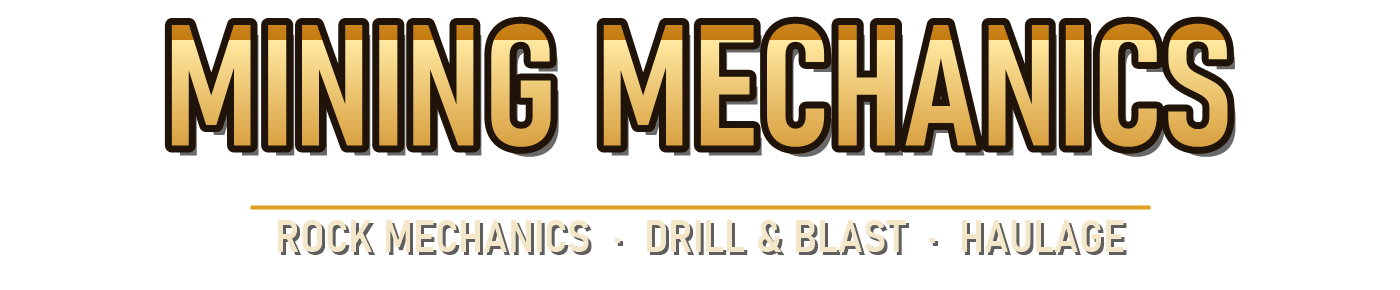
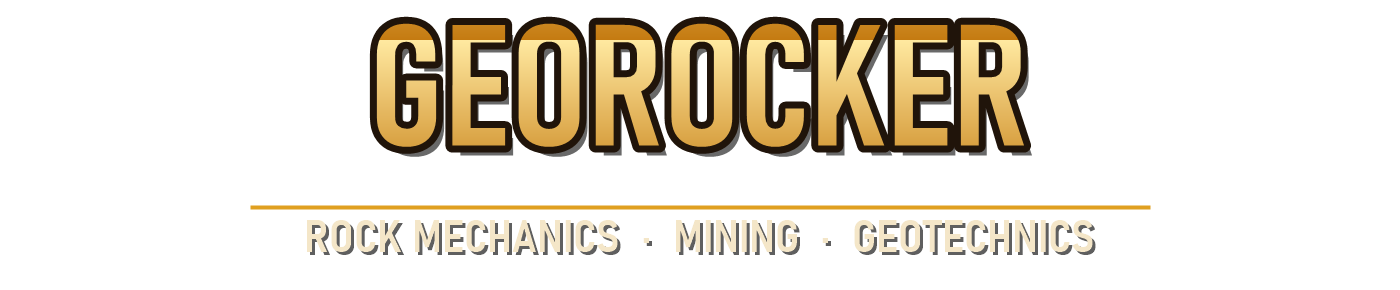
遊戲名稱改成 GeoRocker（暫定）
標題字重畫（GEOROCKER，副標 ROCK MECHANICS · MINING · GEOTECHNICS；只重產 logo，背景不動）、
game.conf title、打包預設名稱（D:\Teaching\GeoRocker、GeoRocker.zip）、文件標題。內部名稱 mining_sim／rockmech 不變。
名稱由一位退休老師提出（他的臉書社團名稱）。

diff --git a/docs/PARAMETERS.md b/docs/PARAMETERS.md
@@ -1,4 +1,4 @@
-# Mining Mechanics 遊戲參數總表
+# GeoRocker 遊戲參數總表
 
 rockmech 模組所有可調參數，依學科分類。設定名都加上前綴 `rockmech_`（例如 `slope_angle` 是 `rockmech_slope_angle`）。
 可以寫在世界資料夾的 `rockmech.conf`（優先）或 `minetest.conf`。完整英文說明與範圍見 `mods/rockmech/settingtypes.txt`。
